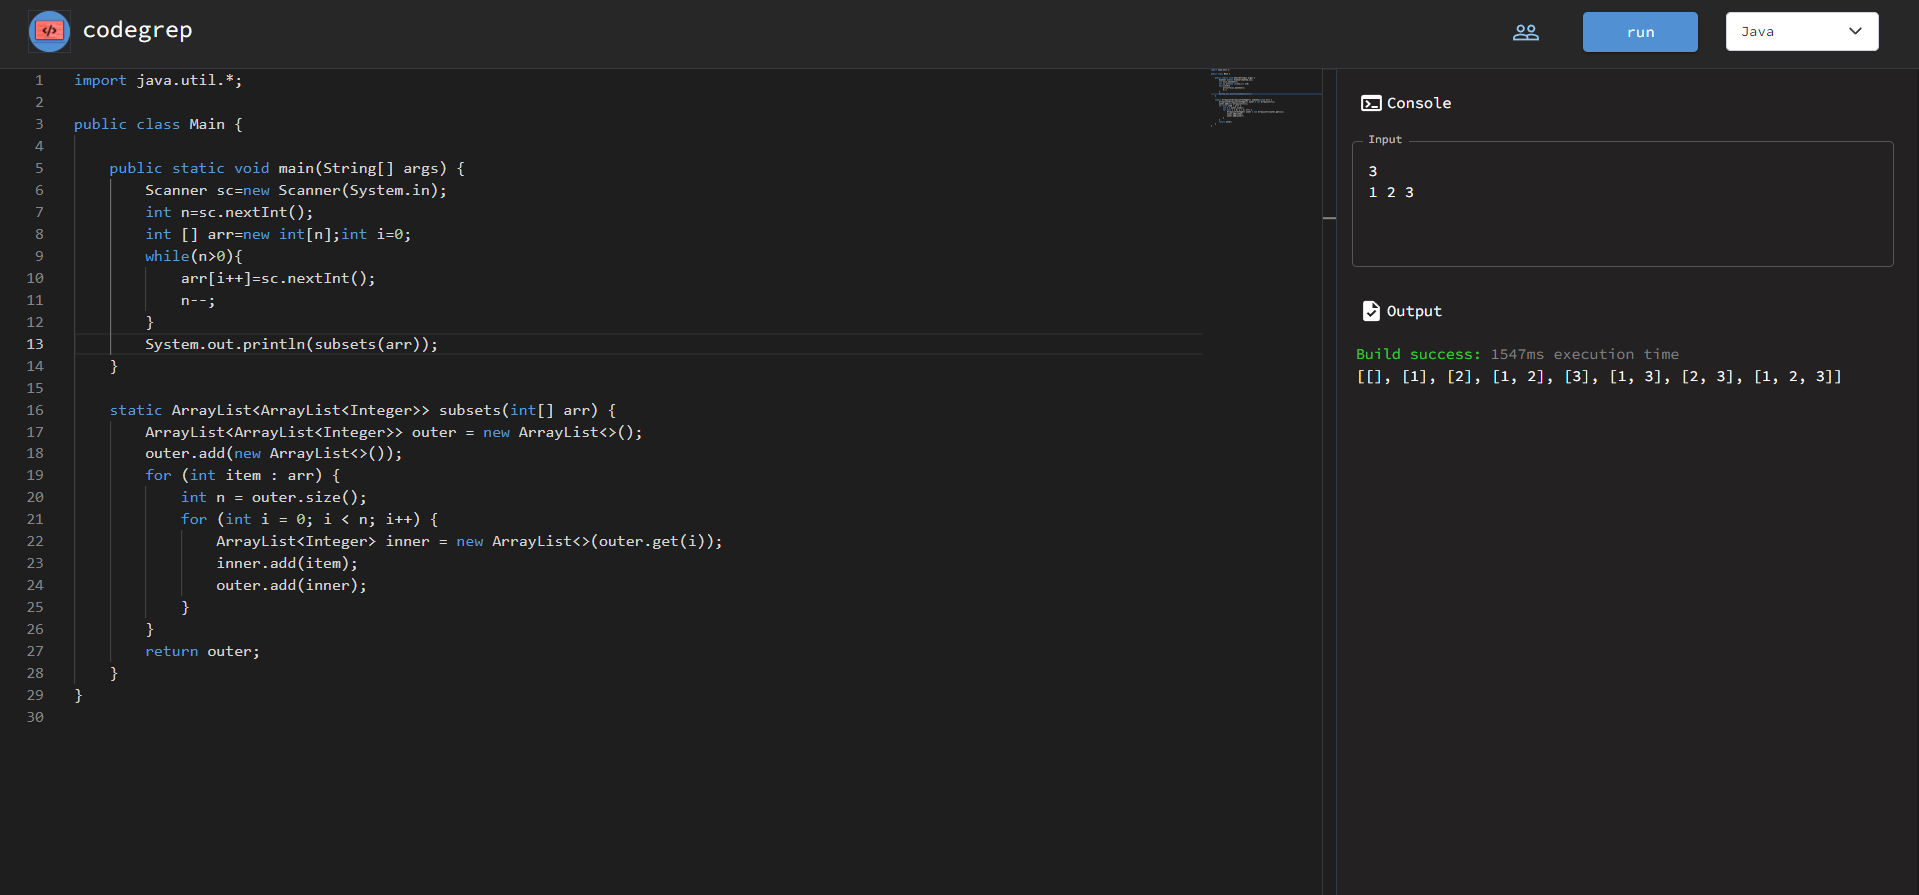
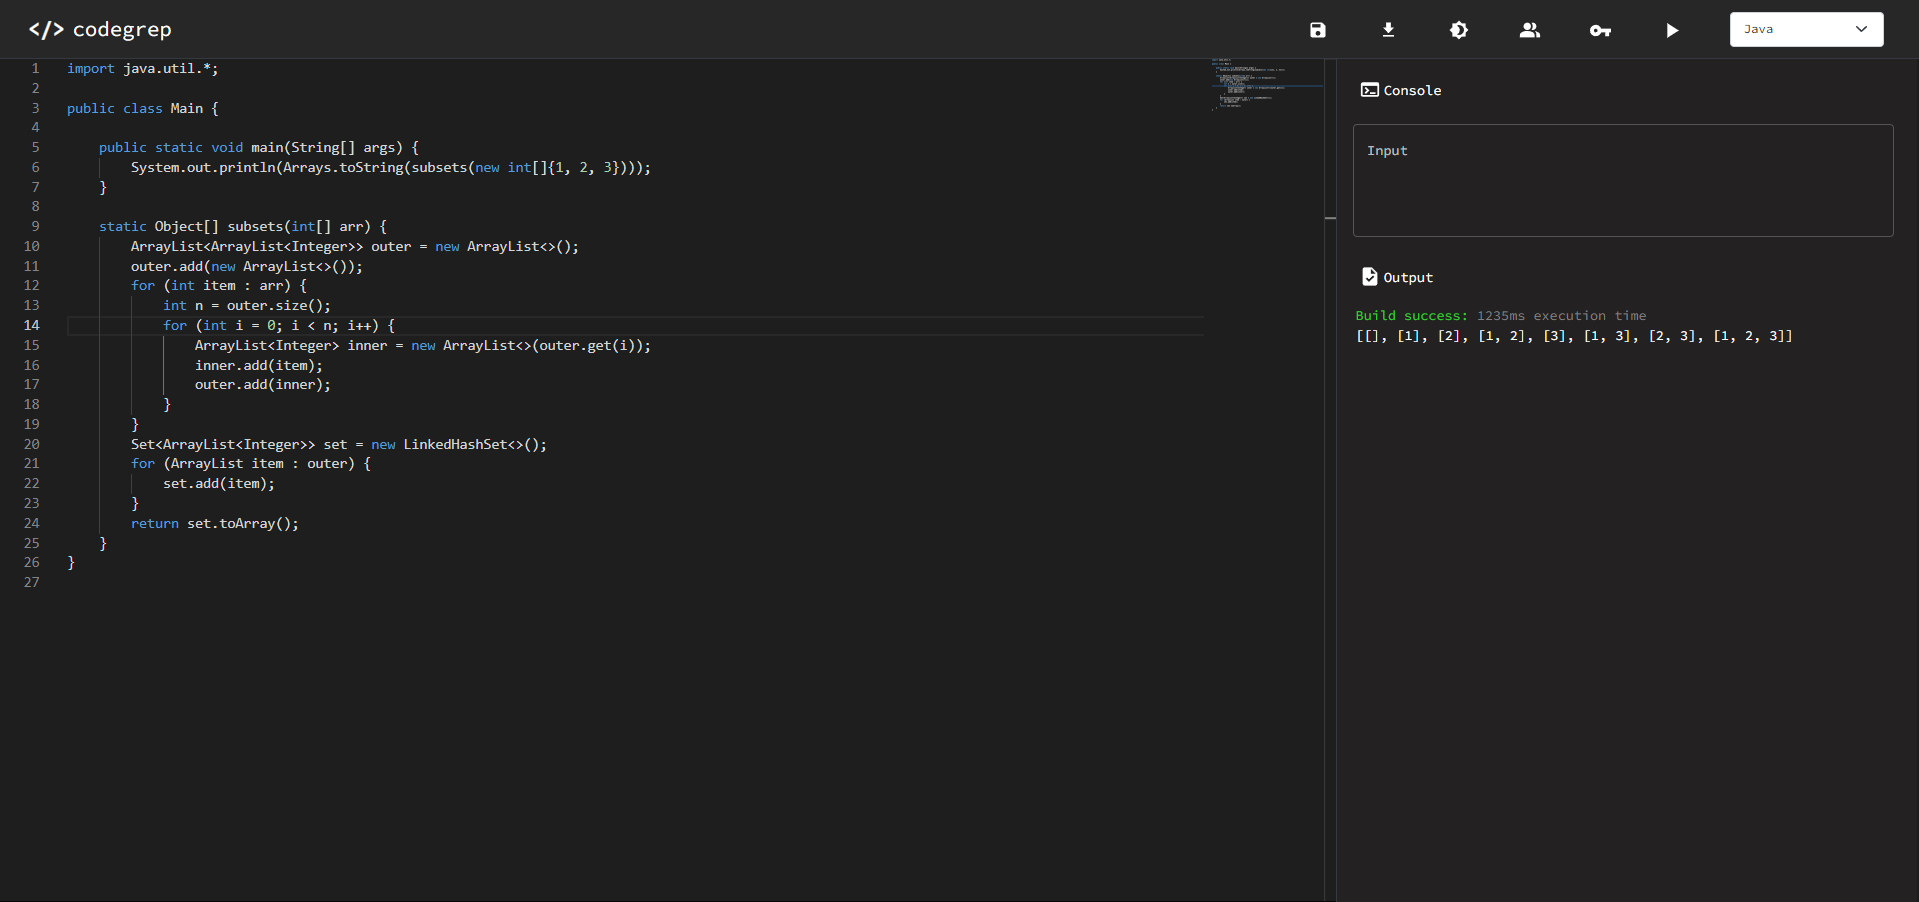
commit navbar chages

diff --git a/client/src/Navbar.js b/client/src/Navbar.js
@@ -1,12 +1,13 @@
 import React from 'react'
 import Button from '@mui/material/Button';
-import PeopleOutlineIcon from '@mui/icons-material/PeopleOutline';
+import PeopleAltIcon from '@mui/icons-material/PeopleAlt';
 import { Link } from 'react-router-dom';
 import uniqid from 'uniqid';
-import logo from './assets/logo1.png'
+import PlayArrowIcon from '@mui/icons-material/PlayArrow';
 import SaveIcon from '@mui/icons-material/Save';
 import DownloadIcon from '@mui/icons-material/Download';
 import Brightness4Icon from '@mui/icons-material/Brightness4';
+import VpnKeyIcon from '@mui/icons-material/VpnKey';
 
 export const Navbar = (props) => {
     function handleSelect(e) {
@@ -28,14 +29,14 @@ export const Navbar = (props) => {
                     <Button onClick={()=>{props.toggleDark()}} title="Dark mode toggle" style={{'marginRight':'4px','marginTop':'2px', height: '35px',color:'white'}}>
                         <Brightness4Icon sx={{fontSize:'19px',color:props.dark?'white':'black'}} />
                     </Button>
-                    <Link to={`/join/${uniqid()}`}><Button title="Collab"  style={{'marginRight':'10px','marginTop':'2px', height: '35px',color:'white'}}>
-                        <PeopleOutlineIcon sx={{fontSize:'22px',color:props.dark?'white':'black'}} />
+                    <Link to={`/join/${uniqid()}`}><Button title="Collab"  style={{'marginRight':'4px','marginTop':'2px', height: '35px',color:'white'}}>
+                        <PeopleAltIcon sx={{fontSize:'21px',color:props.dark?'white':'black'}} />
                     </Button></Link>
-                    <Button onClick={() => props.run()} variant="contained" size="medium" sx={{ width: '99px', height: '35px' ,marginTop:'2px' ,fontSize:'12.95px',color:'white',fontFamily: 'Source Code Pro',textTransform:'lowercase',backgroundColor:'#5090D3' ,'marginRight':'18px'}}>
-                        Sign In
+                    <Button title="Login" onClick={() => props.run()}  size="medium" sx={{ height: '35px' ,marginTop:'2px' ,fontSize:'12.95px',color:'white',fontFamily: 'Source Code Pro',textTransform:'lowercase' ,marginRight:'4px'}}>
+                        <VpnKeyIcon sx={{fontSize:'22px',color:props.dark?'white':'black'}}  />
                     </Button>
-                    <Button onClick={() => props.run()} variant="contained" size="medium" sx={{ width: '99px', height: '35px' ,marginTop:'2px' ,fontSize:'12.95px',color:'white',fontFamily: 'Source Code Pro',textTransform:'lowercase',backgroundColor:'#5090D3' }}>
-                        run
+                    <Button title="Run Code" onClick={() => props.run()} size="medium" sx={{height: '35px' ,marginTop:'2px' ,fontSize:'12.95px',color:'white',fontFamily: 'Source Code Pro',textTransform:'lowercase'}}>
+                        <PlayArrowIcon sx={{fontSize:'24px',color:props.dark?'white':'black'}}  />
                     </Button>
                     <select className="form-select mx-4" style={{ width: '8vw', fontSize: '12px', marginTop: '1.9px',height:'34px' }} aria-label="Default select example" onChange={(e) => handleSelect(e)} value={props.langsel}>
                         <option value="cpp">C++</option>

diff --git a/client/src/TextEditor.jsx b/client/src/TextEditor.jsx
@@ -17,6 +17,7 @@ export const TextEditor = (props) => {
     return (
         <div className="textarea" style={{ height: '93vh', overflowY: 'scroll', backgroundColor: '#080808', width: '70vw' }}>
             <Editor
+                fontSize= "22px"
                 height="92.85vh"
                 width="100%"
                 theme={props.dark?'vs-dark':"vs"}

diff --git a/README.md b/README.md
@@ -69,7 +69,12 @@ $ npm start
 
 
 ## Overview
+
+#### Dark Mode :
 <img src="./images/1.png">
+
+#### Light Mode :
+<img src="./images/2.png">
 
 #### *Realtime code collaboration* : 
 <img src="./images/videoimg.gif">
